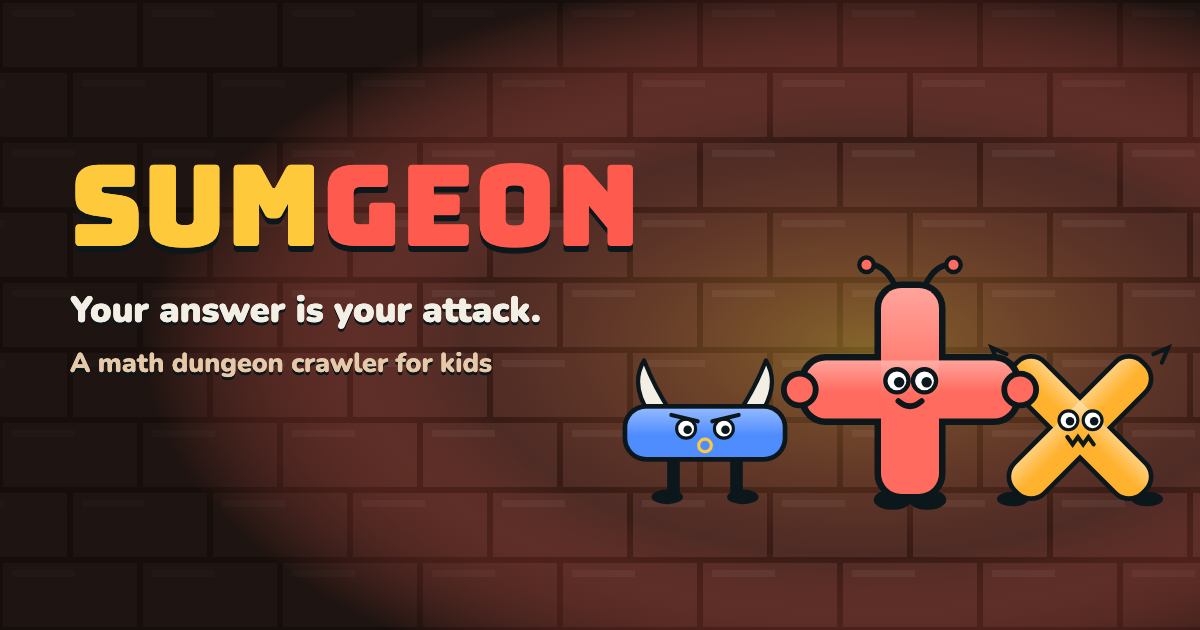
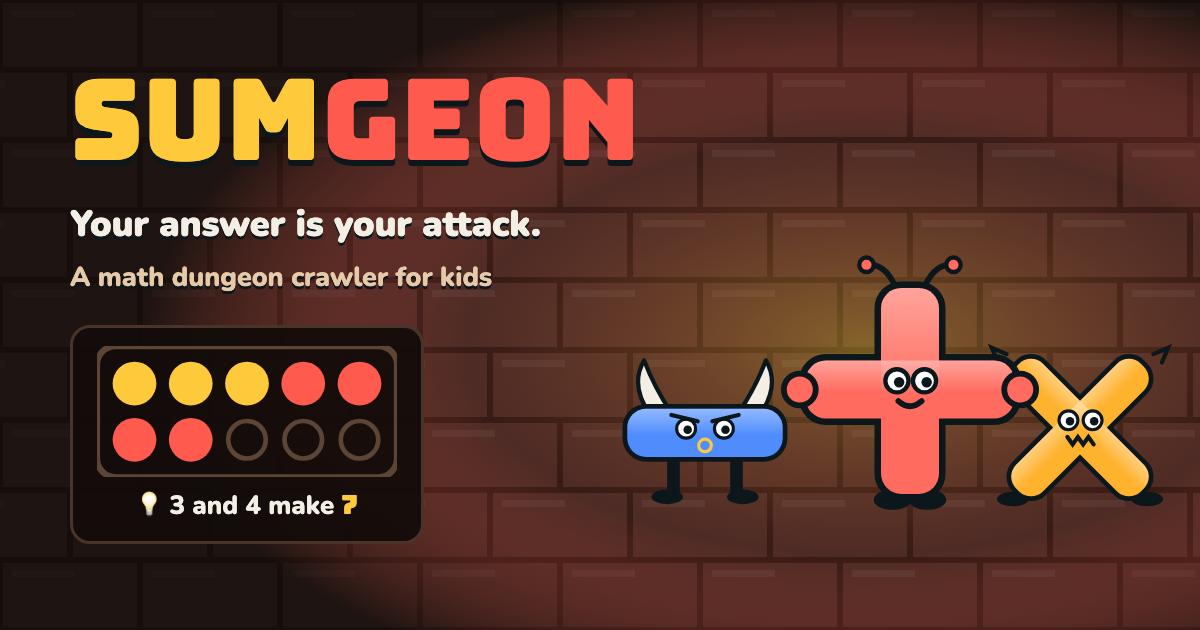
The social card shows a hint: 3 + 4 on a ten-frame

Changed region(s): [[0.0617, 0.1206, 0.555, 0.8746]]

diff --git a/CLAUDE.md b/CLAUDE.md
@@ -31,7 +31,7 @@ A math-practice dungeon crawler. The player fights anthropomorphic monsters buil
 - iPad and desktop (760px and wider) use two columns with the same split. The right column sits at the bottom of its box, and the game is at least the screen's height, so a hint opening (a new fact's opens after a moment) grows into the space above and the problem and pad never move under a click: the left column is the monster's box (nameplate across the top, the monster, messages as a pill under it); the right column is your side (an open hint, then the problem and answer as one line, then the number pad, with your hero and hearts under it). The nameplate is pinned to the top of the monster's box, so an open hint doesn't move the monster. As on phones, `.arena` and `.panel` are `display: contents`; their boxes are `.game::before` and `::after`.
 - Check layout changes at iPhone SE, iPhone 14, iPad (both orientations) and desktop sizes.
 - No accidental zoom: `touch-action: manipulation` stops double-tap zoom (fast taps still register), and `app.js` stops pinches (`gesturestart`, two-finger `touchmove`), since Safari ignores `maximum-scale` for them.
-- **Social card**: `social.png` (1200 × 630), the link preview, with the `og:` and `twitter:` tags in `index.html`. `design/social/make.mjs` draws it from the game's art (the Cellar wall, the title, Minustaur, Plusquito and Timesaur) and renders it with Playwright; rerun it after changing the art.
+- **Social card**: `social.png` (1200 × 630), the link preview, with the `og:` and `twitter:` tags in `index.html`. `design/social/make.mjs` draws it from the game's art (the Cellar wall, the title, a ten-frame hint for 3 + 4, Minustaur, Plusquito and Timesaur) and renders it with Playwright; rerun it after changing the art.
 - Fonts: Bungee (titles, numbers) and Nunito (body), from Google Fonts.
 - Palette: chalkboard slate `#12242b`, panel `#1a313a`, chalk `#f3efe4`, coral `#ff5a4e`, gold `#ffc93c`, outline `#0c171c`.
 
